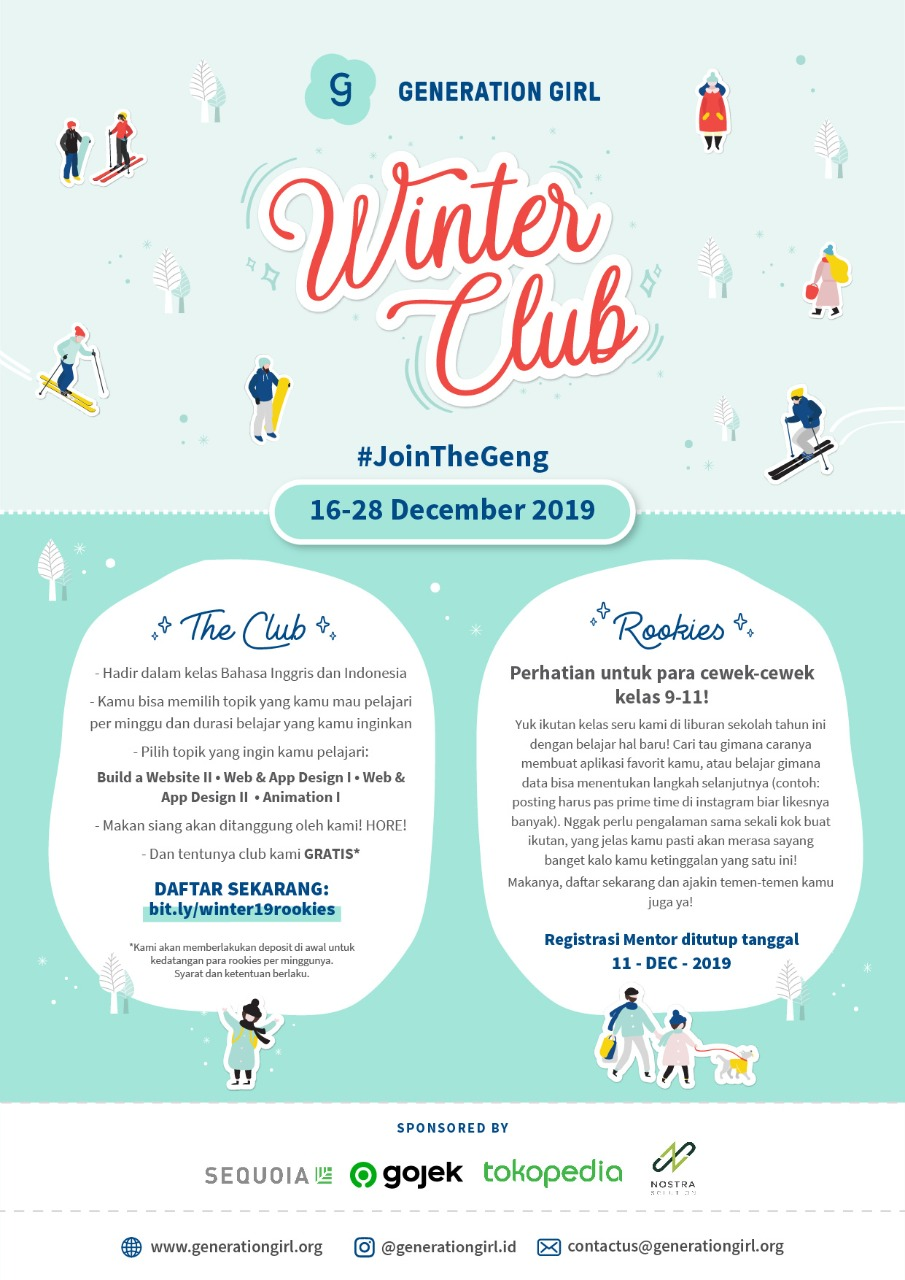
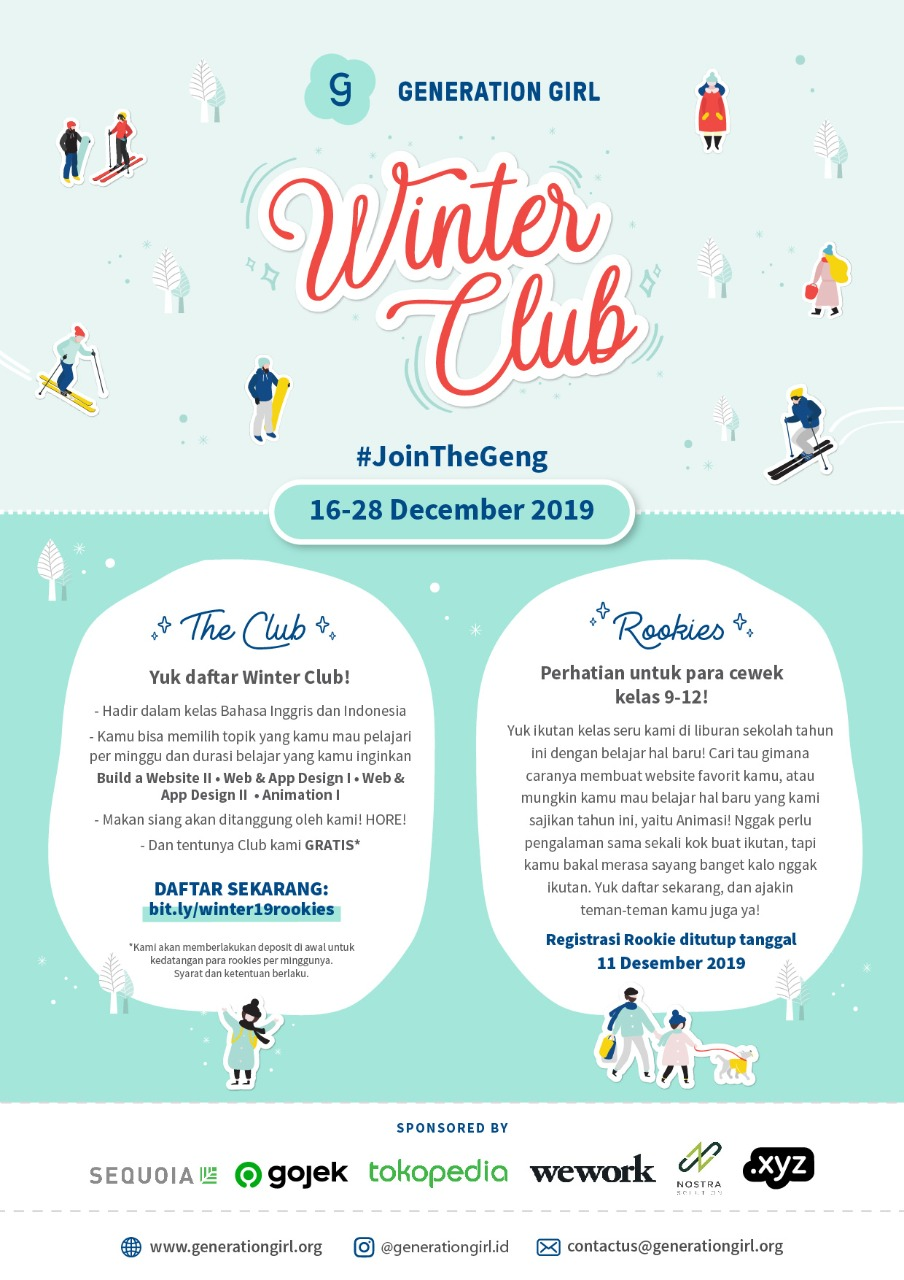
new mentor and winter posters for indo page

diff --git a/winterclub19.html b/winterclub19.html
@@ -120,8 +120,8 @@
 				<br>
 
 				<div class="row text-center">
-				    <a href="./assets/winterclub19/metnor-poster-id.jpeg" data-toggle="lightbox" data-gallery="gallery" class="col-md-6">
-					    <img src="./assets/winterclub19/metnor-poster-id.jpeg" class="clubposter img-fluid rounded"><br>
+				    <a href="./assets/winterclub19/mentor-poster-id.jpeg" data-toggle="lightbox" data-gallery="gallery" class="col-md-6">
+					    <img src="./assets/winterclub19/mentor-poster-id.jpeg" class="clubposter img-fluid rounded"><br>
 					    <h5 class = "postercaption">Poster Mentor</h5>
 				    </a>
 				    <a href="./assets/winterclub19/rookie-poster-id.jpeg" data-toggle="lightbox" data-gallery="gallery" class="col-md-6">
